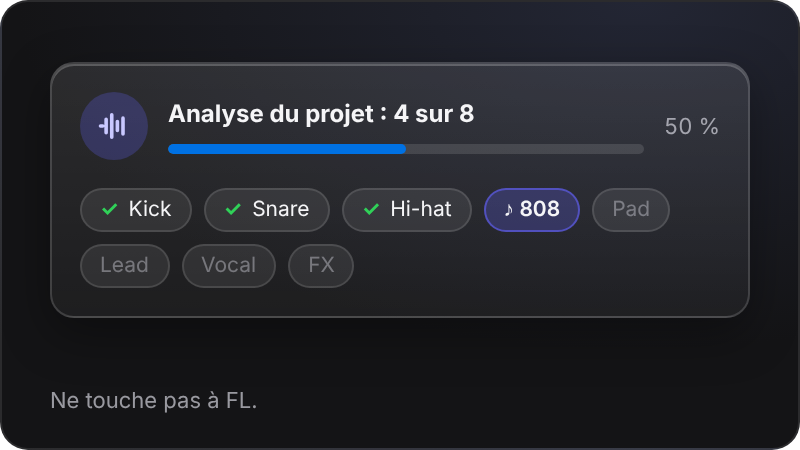
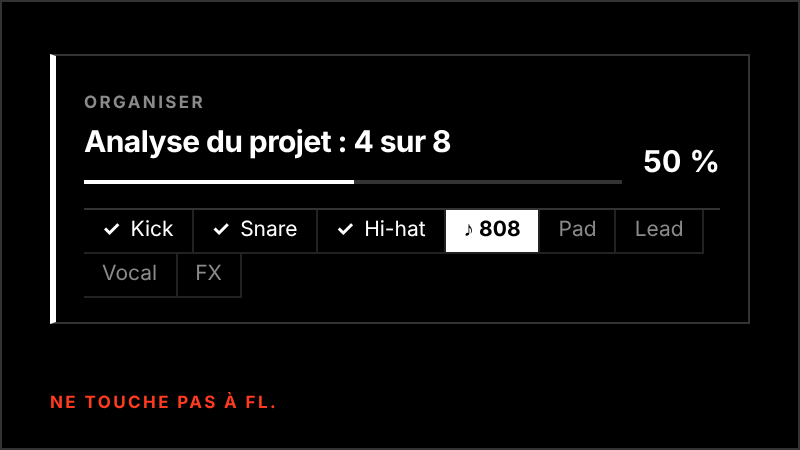
Tuto de l'Organiser au style suisse (4 images et leur page)
Images rendues de docs/images/organiser-tuto.html (fond noir, traits fins, coins carrés, boutons en capitales,
rouge pour ce qu'on montre) ; la page : numéro de l'étape, titre en Helvetica gras, traits à la place des points.

Claude-Session: https://claude.ai/code/session_01N2FeTTyP7w1fPFHnaWwLWu

diff --git a/docs/images/organiser-tuto.html b/docs/images/organiser-tuto.html
@@ -5,95 +5,98 @@
 <title>Tuto de l'Organiser</title>
 <style>
 /* Images du tuto de l'Organiser (Resources/*.lproj/OrganiserTuto1-4.png), rendues par rendre-organiser-tuto.js :
-   organiser-tuto.html#fr-1 … #en-4. Même style que l'app : fond noir, plaques claires, bleu pour l'action, indigo
-   pour l'Organiser. 400 × 225 points, rendues à 2×. */
+   organiser-tuto.html#fr-1 … #en-4. Style suisse de l'app (validé le 01/11) : fond noir, texte blanc, traits fins,
+   coins carrés, libellés en petites capitales espacées, boutons rectangulaires en capitales (principal blanc plein),
+   rouge seulement pour ce qu'on montre. 400 × 225 points, rendues à 2×. */
 :root {
-  --text: #F5F5F7; --muted: rgba(235,235,245,0.62); --faint: rgba(235,235,245,0.38);
-  --accent: #0071E3; --indigo: #5E5CE6; --green: #30D158; --orange: #FF9F0A; --red: #FF453A; --purple: #BF5AF2;
-  --plate: linear-gradient(180deg, rgba(255,255,255,0.10) 0%, rgba(255,255,255,0.045) 100%);
+  --text: #FFFFFF; --muted: #8A8A8A; --soft: #A8A8A8; --line: #333333; --faint: #222222; --red: #FF3B1F;
   color-scheme: dark;
 }
 * { box-sizing: border-box; }
 html, body { margin: 0; background: transparent; }
-body { font: 12px/1.35 -apple-system, BlinkMacSystemFont, "SF Pro Text", "Helvetica Neue", system-ui, sans-serif;
-  color: var(--text); -webkit-font-smoothing: antialiased; }
-.scene { width: 400px; height: 225px; border-radius: 14px; overflow: hidden; position: relative;
-  background: radial-gradient(120% 120% at 80% 0%, #232634 0%, #141416 65%); border: 1px solid rgba(255,255,255,0.10); }
-.plate { border-radius: 12px; background: var(--plate); border: 1px solid rgba(255,255,255,0.15);
-  box-shadow: inset 0 1px 0 rgba(255,255,255,0.22), 0 8px 24px rgba(0,0,0,0.35); }
-.sq { width: 18px; height: 18px; border-radius: 5px; display: grid; place-items: center; flex: none;
-  box-shadow: inset 0 1px 0 rgba(255,255,255,0.3); }
-.sq svg { width: 10px; height: 10px; }
+body { font: 12px/1.35 "Helvetica Neue", Helvetica, Arial, sans-serif; color: var(--text); -webkit-font-smoothing: antialiased; }
+.scene { width: 400px; height: 225px; overflow: hidden; position: relative; background: #000; border: 1px solid var(--line); }
+.plate { background: #000; border: 1px solid var(--line); }
+.sq { width: 8px; height: 8px; flex: none; }
+.sq svg { display: none; }
 .row { display: flex; align-items: center; gap: 7px; height: 26px; padding: 0 8px; font-size: 11px; }
-.row + .row { border-top: 1px solid rgba(255,255,255,0.06); }
-.blue { display: inline-flex; align-items: center; height: 24px; padding: 0 12px; border-radius: 12px; background: var(--accent);
-  color: #fff; font-weight: 600; font-size: 11px; white-space: nowrap; }
-.grey { display: inline-flex; align-items: center; height: 24px; padding: 0 11px; border-radius: 12px; background: rgba(255,255,255,0.10);
-  border: 1px solid rgba(255,255,255,0.14); font-size: 11px; white-space: nowrap; }
-.pulse { box-shadow: 0 0 0 3px rgba(0,113,227,0.35), 0 0 0 6px rgba(0,113,227,0.14); }
+.row + .row { border-top: 1px solid var(--faint); }
+.blue, .grey { display: inline-flex; align-items: center; height: 24px; padding: 0 12px; font-weight: 700; font-size: 9px;
+  letter-spacing: 1px; text-transform: uppercase; white-space: nowrap; border: 1px solid #fff; }
+.blue { background: #fff; color: #000; }
+.grey { background: #000; color: #fff; }
+.pulse { outline: 2px solid var(--red); outline-offset: 2px; }
 .cursor { position: absolute; width: 18px; height: 18px; }
+.label { font-size: 8.5px; font-weight: 700; letter-spacing: 1.2px; text-transform: uppercase; color: var(--muted); }
 [data-step] { display: none; }
 
 /* 1 : le projet ouvert dans FL, puis Organiser… dans le menu de l'icône */
-.fl { position: absolute; left: 14px; top: 34px; width: 250px; height: 172px; border-radius: 9px; background: #2B3034;
-  border: 1px solid rgba(255,255,255,0.10); overflow: hidden; box-shadow: 0 12px 30px rgba(0,0,0,0.5); }
-.fl .bar { height: 20px; background: #1F2326; display: flex; align-items: center; gap: 5px; padding: 0 8px; font-size: 9.5px; color: var(--muted); }
+.fl { position: absolute; left: 14px; top: 34px; width: 250px; height: 172px; background: #2B3034;
+  border: 1px solid var(--line); overflow: hidden; }
+.fl .bar { height: 20px; background: #1F2326; display: flex; align-items: center; gap: 5px; padding: 0 8px; font-size: 9.5px; color: var(--soft); }
 .fl .bar i { width: 7px; height: 7px; border-radius: 4px; background: #FF5F57; }
 .fl .bar i:nth-child(2) { background: #FEBC2E; } .fl .bar i:nth-child(3) { background: #28C840; }
-.fl .bar b { margin-left: 6px; color: var(--text); font-weight: 600; }
+.fl .bar b { margin-left: 6px; color: var(--text); font-weight: 700; }
 .lane { display: flex; align-items: center; height: 24px; border-bottom: 1px solid rgba(0,0,0,0.25); padding-left: 52px; position: relative; }
 .lane span { position: absolute; left: 6px; font-size: 8.5px; color: rgba(255,255,255,0.55); }
-.clip { height: 17px; border-radius: 3px; margin-right: 4px; opacity: .92; flex: none; }
-.menubar { position: absolute; top: 0; left: 0; right: 0; height: 22px; background: rgba(0,0,0,0.45); display: flex;
-  justify-content: flex-end; align-items: center; gap: 10px; padding: 0 12px; font-size: 10px; color: var(--muted); }
-.mbicon { width: 22px; height: 16px; border-radius: 4px; display: grid; place-items: center; background: rgba(255,255,255,0.25); }
-.menu { position: absolute; right: 12px; top: 26px; width: 168px; border-radius: 12px; background: #1C1C1F;
-  border: 1px solid rgba(255,255,255,0.10); box-shadow: 0 16px 40px rgba(0,0,0,0.6); padding: 6px 4px 4px; }
-.menu .it { display: flex; align-items: center; gap: 7px; height: 26px; padding: 0 6px; border-radius: 7px; font-size: 11px; white-space: nowrap; }
-.menu .it.on { background: var(--indigo); }
-.menu .it.on .sq { background: rgba(255,255,255,0.24) !important; box-shadow: none; }
+.clip { height: 17px; margin-right: 4px; opacity: .92; flex: none; }
+.menubar { position: absolute; top: 0; left: 0; right: 0; height: 22px; background: #000; border-bottom: 1px solid var(--line);
+  display: flex; justify-content: flex-end; align-items: center; gap: 10px; padding: 0 12px; font-size: 10px; color: var(--soft); }
+.mbicon { width: 22px; height: 16px; display: grid; place-items: center; background: #fff; }
+.mbicon svg { stroke: #000; }
+.menu { position: absolute; right: 12px; top: 26px; width: 168px; background: #000; border: 1px solid var(--line);
+  box-shadow: 0 16px 40px rgba(0,0,0,0.6); padding: 4px 0; }
+.menu .it { display: flex; align-items: center; gap: 8px; height: 26px; padding: 0 10px; font-size: 11px; white-space: nowrap; }
+.menu .it + .it { border-top: 1px solid var(--faint); }
+.menu .it.on { background: #fff; color: #000; }
 
 /* 2 : l'écoute */
-.listen { position: absolute; left: 24px; right: 24px; top: 30px; padding: 14px; }
-.lhead { display: flex; align-items: center; gap: 10px; }
-.wave { width: 34px; height: 34px; border-radius: 17px; background: rgba(94,92,230,0.28); display: grid; place-items: center; flex: none; }
+.listen { position: absolute; left: 24px; right: 24px; top: 26px; padding: 14px 14px 12px; border-left: 3px solid var(--text); }
+.lhead { display: flex; align-items: flex-end; gap: 10px; }
+.wave { display: none; }
 .ltext { flex: 1; }
-.ltext b { display: block; font-size: 12px; margin-bottom: 6px; }
-.track { height: 5px; border-radius: 3px; background: rgba(255,255,255,0.12); overflow: hidden; }
-.track i { display: block; height: 100%; width: 50%; background: var(--accent); border-radius: 3px; }
-.pct { font-size: 11px; color: var(--muted); font-variant-numeric: tabular-nums; }
-.sounds { display: flex; flex-wrap: wrap; gap: 6px; margin-top: 14px; }
-.chip { display: inline-flex; align-items: center; gap: 5px; height: 22px; padding: 0 9px; border-radius: 11px; font-size: 10.5px;
-  background: rgba(255,255,255,0.08); border: 1px solid rgba(255,255,255,0.12); }
-.chip.done::before { content: "✓"; color: var(--green); font-weight: 700; }
-.chip.now { background: rgba(94,92,230,0.28); border-color: rgba(94,92,230,0.7); font-weight: 600; }
-.chip.wait { color: var(--faint); }
-.hands { position: absolute; left: 24px; bottom: 16px; font-size: 11px; color: var(--muted); }
+.ltext b { display: block; font-size: 15px; letter-spacing: -0.3px; margin: 3px 0 8px; }
+.track { height: 2px; background: var(--line); overflow: hidden; }
+.track i { display: block; height: 100%; width: 50%; background: var(--text); }
+.pct { font-size: 15px; font-weight: 700; font-variant-numeric: tabular-nums; }
+.sounds { display: flex; flex-wrap: wrap; gap: 0; margin-top: 12px; border-top: 1px solid var(--line); }
+.chip { display: inline-flex; align-items: center; gap: 5px; height: 22px; padding: 0 9px; font-size: 10.5px;
+  border-right: 1px solid var(--faint); border-bottom: 1px solid var(--faint); }
+.chip.done::before { content: "✓"; font-weight: 700; }
+.chip.now { background: #fff; color: #000; font-weight: 700; }
+.chip.wait { color: var(--muted); }
+.hands { position: absolute; left: 24px; bottom: 16px; font-size: 8.5px; font-weight: 700; letter-spacing: 1.2px;
+  text-transform: uppercase; color: var(--red); }
 
 /* 3 : l'aperçu */
-.fams { position: absolute; left: 16px; right: 16px; top: 16px; display: grid; grid-template-columns: 1fr 1fr; gap: 10px; }
+.fams { position: absolute; left: 16px; right: 16px; top: 14px; display: grid; grid-template-columns: 1fr 1fr; gap: 12px; }
 .fams > div { min-width: 0; }
-.fhead { display: flex; align-items: center; gap: 6px; font-weight: 600; font-size: 11.5px; margin: 0 0 4px 4px; }
-.dot { width: 10px; height: 10px; border-radius: 3px; flex: none; }
-.fhead small { margin-left: auto; margin-right: 4px; color: var(--muted); font-weight: 500; font-size: 10px; }
-.old { color: var(--muted); flex: 1; min-width: 0; white-space: nowrap; overflow: hidden; text-overflow: ellipsis; }
-.to { color: var(--faint); }
-.new { font-weight: 600; }
-.slot { min-width: 20px; height: 16px; border-radius: 4px; display: grid; place-items: center; font-size: 9.5px; font-weight: 700; color: #fff; padding: 0 3px; flex: none; }
-.foot { position: absolute; right: 16px; bottom: 14px; display: flex; gap: 8px; }
+.fhead { display: flex; align-items: center; gap: 6px; font-weight: 700; font-size: 8.5px; letter-spacing: 1.2px;
+  text-transform: uppercase; margin: 0 0 4px 2px; }
+.dot { width: 8px; height: 8px; flex: none; }
+.fhead small { margin-left: auto; margin-right: 2px; color: var(--muted); font-weight: 700; font-size: 8px; }
+.fams .plate { border-top-width: 3px; }
+.old { color: var(--soft); flex: 1; min-width: 0; white-space: nowrap; overflow: hidden; text-overflow: ellipsis; }
+.to { color: var(--muted); }
+.new { font-weight: 700; }
+.slot { min-width: 22px; height: 16px; display: grid; place-items: center; font-size: 9.5px; font-weight: 700; color: #fff;
+  padding: 0 3px; flex: none; border: 1px solid; background: #000 !important; }
+.foot { position: absolute; right: 16px; bottom: 14px; display: flex; gap: 0; }
 
 /* 4 : la copie rangée */
 .files { position: absolute; left: 20px; right: 20px; top: 20px; display: flex; align-items: center; justify-content: space-between; }
-.file { width: 150px; padding: 12px 10px; display: flex; flex-direction: column; align-items: center; gap: 6px; text-align: center; }
-.doc { width: 34px; height: 42px; border-radius: 5px; background: linear-gradient(180deg, #FF9F0A, #FF6B00); position: relative;
-  box-shadow: 0 6px 16px rgba(255,140,0,0.25); }
-.doc::after { content: "FLP"; position: absolute; left: 0; right: 0; bottom: 6px; text-align: center; font-size: 8px; font-weight: 800; color: rgba(0,0,0,0.55); }
-.doc.copy { background: linear-gradient(180deg, #7D7AFF, #5E5CE6); box-shadow: 0 6px 16px rgba(94,92,230,0.35); }
-.file b { font-size: 11px; }
-.file small { color: var(--muted); font-size: 10px; }
-.arrow2 { color: var(--muted); font-size: 22px; }
-.ask { position: absolute; left: 20px; right: 20px; bottom: 14px; display: flex; align-items: center; gap: 8px; padding: 9px 10px; }
-.ask span:first-child { flex: 1; min-width: 0; font-weight: 600; font-size: 11px; }
+.file { width: 150px; height: 112px; padding: 12px 8px; display: flex; flex-direction: column; align-items: center; gap: 6px; text-align: center; }
+.doc { width: 30px; height: 38px; background: #fff; position: relative; }
+.doc::after { content: "FLP"; position: absolute; left: 0; right: 0; bottom: 5px; text-align: center; font-size: 8px; font-weight: 800; color: #000; }
+.doc.copy { background: #000; border: 1px solid #fff; }
+.doc.copy::after { color: #fff; }
+.file b { font-size: 12px; }
+.file small { color: var(--muted); font-size: 7.5px; font-weight: 700; letter-spacing: 0.8px; text-transform: uppercase; white-space: nowrap; }
+.arrow2 { color: var(--red); font-size: 22px; font-weight: 700; }
+.ask { position: absolute; left: 20px; right: 20px; bottom: 14px; display: flex; align-items: center; gap: 0; padding: 8px 8px 8px 12px;
+  border-top: 1px solid #fff; }
+.ask span:first-child { flex: 1; min-width: 0; font-weight: 700; font-size: 11px; line-height: 1.2; padding-right: 8px; }
+.ask .blue, .ask .grey { padding: 0 9px; font-size: 8px; letter-spacing: 0.8px; }
 </style>
 </head>
 <body>
@@ -122,7 +125,7 @@ body { font: 12px/1.35 -apple-system, BlinkMacSystemFont, "SF Pro Text", "Helvet
     <div class="plate listen">
       <div class="lhead">
         <div class="wave"><svg width="18" height="18" viewBox="0 0 16 16" fill="none" stroke="#C9C8FF" stroke-width="1.6" stroke-linecap="round"><path d="M2 8h1M4.5 5v6M7 3v10M9.5 6v4M12 4.5v7"/></svg></div>
-        <div class="ltext"><b data-t="ecoute"></b><div class="track"><i></i></div></div>
+        <div class="ltext"><span class="label" data-t="organiserLabel"></span><b data-t="ecoute"></b><div class="track"><i></i></div></div>
         <span class="pct">50 %</span>
       </div>
       <div class="sounds">
@@ -137,20 +140,20 @@ body { font: 12px/1.35 -apple-system, BlinkMacSystemFont, "SF Pro Text", "Helvet
     <div class="fams">
       <div>
         <div class="fhead"><span class="dot" style="background:#FF453A"></span>Drums<small>Mixer 2</small></div>
-        <div class="plate">
-          <div class="row"><span class="old">kick_hard_03</span><span class="to">→</span><span class="new">Kick</span><span class="slot" style="background:#FF453A">2</span></div>
-          <div class="row"><span class="old">SNR 12 room</span><span class="to">→</span><span class="new">Snare</span><span class="slot" style="background:#FF453A">3</span></div>
-          <div class="row"><span class="old">hh loop 140</span><span class="to">→</span><span class="new">Hi-hat</span><span class="slot" style="background:#FF453A">4</span></div>
+        <div class="plate" style="border-top-color:#FF453A">
+          <div class="row"><span class="old">kick_hard_03</span><span class="to">→</span><span class="new">Kick</span><span class="slot" style="border-color:#FF453A">2</span></div>
+          <div class="row"><span class="old">SNR 12 room</span><span class="to">→</span><span class="new">Snare</span><span class="slot" style="border-color:#FF453A">3</span></div>
+          <div class="row"><span class="old">hh loop 140</span><span class="to">→</span><span class="new">Hi-hat</span><span class="slot" style="border-color:#FF453A">4</span></div>
         </div>
       </div>
       <div>
         <div class="fhead"><span class="dot" style="background:#FF9F0A"></span>808<small>Mixer 6</small></div>
-        <div class="plate">
-          <div class="row"><span class="old">Sub long</span><span class="to">→</span><span class="new">808</span><span class="slot" style="background:#FF9F0A">6</span></div>
+        <div class="plate" style="border-top-color:#FF9F0A">
+          <div class="row"><span class="old">Sub long</span><span class="to">→</span><span class="new">808</span><span class="slot" style="border-color:#FF9F0A">6</span></div>
         </div>
         <div class="fhead" style="margin-top:7px"><span class="dot" style="background:#BF5AF2"></span><span data-t="melodies"></span><small>Mixer 8</small></div>
-        <div class="plate">
-          <div class="row"><span class="old">Serum 4</span><span class="to">→</span><span class="new">Lead</span><span class="slot pulse" style="background:#BF5AF2">8</span></div>
+        <div class="plate" style="border-top-color:#BF5AF2">
+          <div class="row"><span class="old">Serum 4</span><span class="to">→</span><span class="new">Lead</span><span class="slot pulse" style="border-color:#BF5AF2">8</span></div>
         </div>
       </div>
     </div>
@@ -171,12 +174,12 @@ body { font: 12px/1.35 -apple-system, BlinkMacSystemFont, "SF Pro Text", "Helvet
 <script>
 const T = {
   fr: { date: 'mer. 29 oct.  10:42', projet: 'Mon son.flp', raccourcis: 'Modifier les raccourcis…', macros: 'Macros…',
-        organiser: 'Organiser…', ecoute: 'Analyse du projet : 4 sur 8', mains: 'Ne touche pas à FL.',
+        organiser: 'Organiser…', organiserLabel: 'Organiser', ecoute: 'Analyse du projet : 4 sur 8', mains: 'Ne touche pas à FL.',
         melodies: 'Mélodies', annuler: 'Annuler', organiserBouton: 'Organiser', original: 'Mon son.flp',
         bougePas: 'ton projet, il ne bouge pas', copie: 'Mon son_2.flp', rangee: 'la copie rangée',
         question: 'Tu valides la version organisée ?', arriere: 'Retourner en arrière', valider: 'Oui, valider' },
   en: { date: 'Wed Oct 29  10:42', projet: 'My song.flp', raccourcis: 'Edit shortcuts…', macros: 'Macros…',
-        organiser: 'Organize…', ecoute: 'Analyzing the project: 4 of 8', mains: "Don't touch FL.",
+        organiser: 'Organize…', organiserLabel: 'Organize', ecoute: 'Analyzing the project: 4 of 8', mains: "Don't touch FL.",
         melodies: 'Melodies', annuler: 'Cancel', organiserBouton: 'Organize', original: 'My song.flp',
         bougePas: 'your project, untouched', copie: 'My song_2.flp', rangee: 'the organized copy',
         question: 'Keep the organized version?', arriere: 'Go back', valider: 'Yes, keep it' },

diff --git a/Sources/FLShortcut/OrganizerTutorial.swift b/Sources/FLShortcut/OrganizerTutorial.swift
@@ -54,11 +54,13 @@ struct OrganizerTutorialView: View {
     var body: some View {
         VStack(alignment: .leading, spacing: 14) {
             picture
-            VStack(alignment: .leading, spacing: 4) {
-                Text(page.title).font(.system(size: 17, weight: .bold))
+            // Style suisse (01/11) : le numéro de l'étape en petites capitales, un titre gras, le texte en gris.
+            VStack(alignment: .leading, spacing: 6) {
+                Text(verbatim: String(format: "%02d / %02d", index + 1, pages.count)).swissLabel(Swiss.red)
+                Text(page.title).font(Swiss.title(22)).tracking(Swiss.titleTracking(22))
                 Text(page.text)
                     .font(.system(size: 13))
-                    .foregroundStyle(.secondary)
+                    .foregroundStyle(Swiss.gray)
                     .fixedSize(horizontal: false, vertical: true)
             }
             .accessibilityElement(children: .combine)
@@ -92,17 +94,16 @@ struct OrganizerTutorialView: View {
             }
         }
         .frame(maxWidth: .infinity)
-        .clipShape(shape)
-        .overlay(shape.strokeBorder(Color.white.opacity(0.10), lineWidth: 1))
+        .clipShape(shape)                                   // l'image a déjà son trait fin
         .accessibilityHidden(true)
     }
 
     private var dots: some View {
         HStack(spacing: 6) {
             ForEach(pages.indices, id: \.self) { i in
-                Circle()
-                    .fill(i == index ? Swiss.red : Color.white.opacity(0.25))
-                    .frame(width: 7, height: 7)
+                Rectangle()
+                    .fill(i == index ? Swiss.text : Swiss.line)
+                    .frame(width: i == index ? 18 : 8, height: 2)
             }
         }
         .accessibilityElement(children: .ignore)
